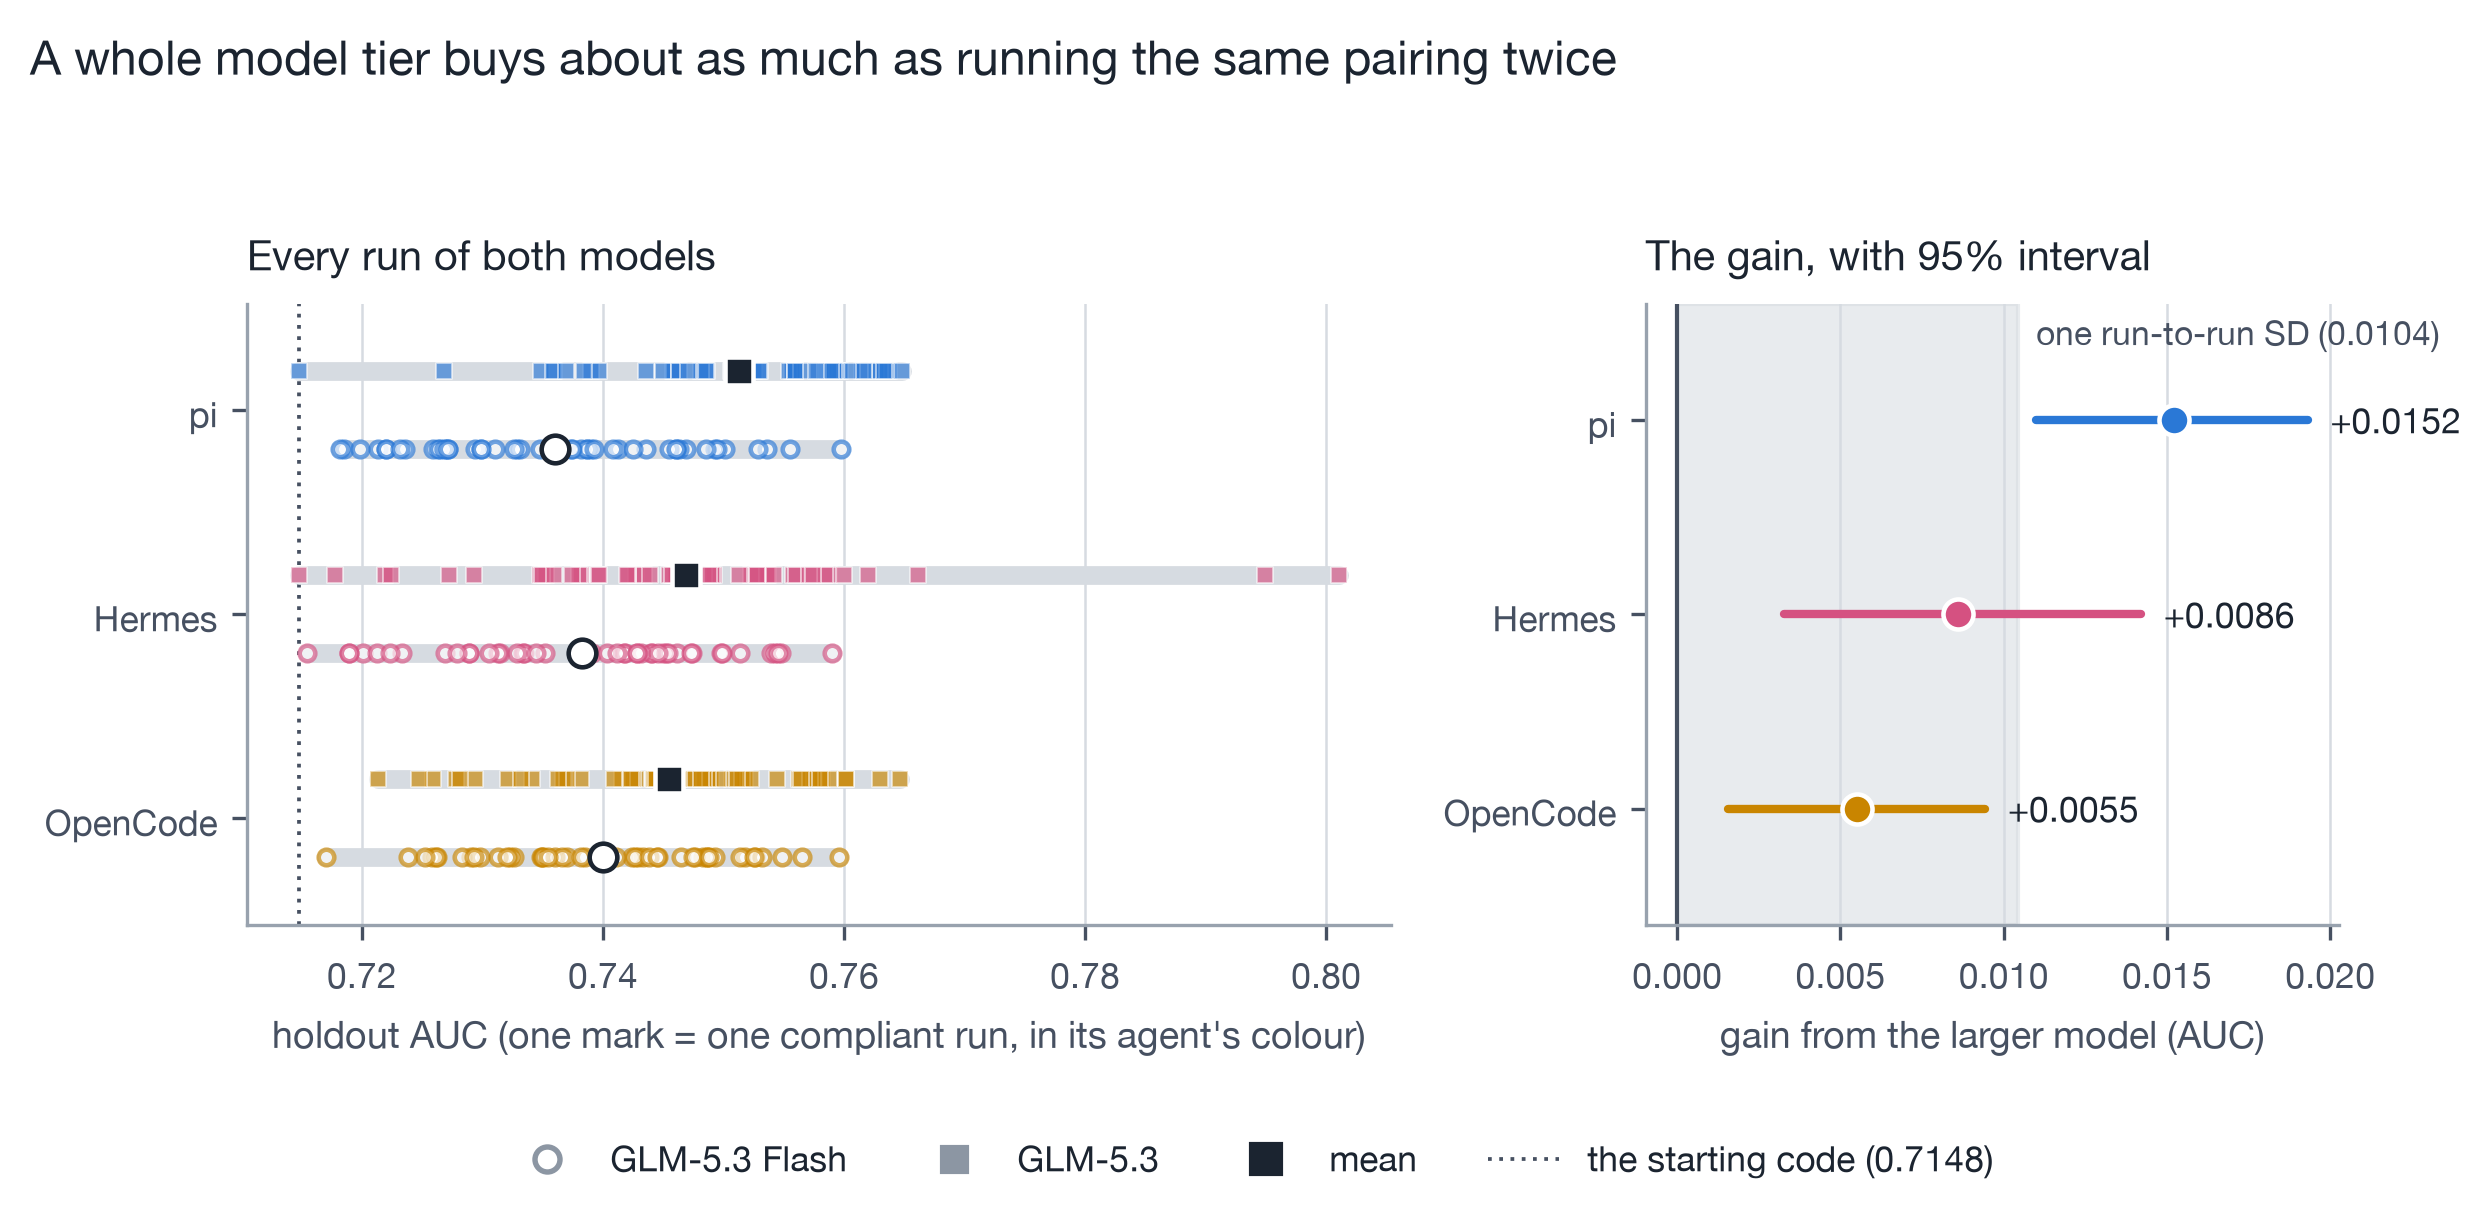
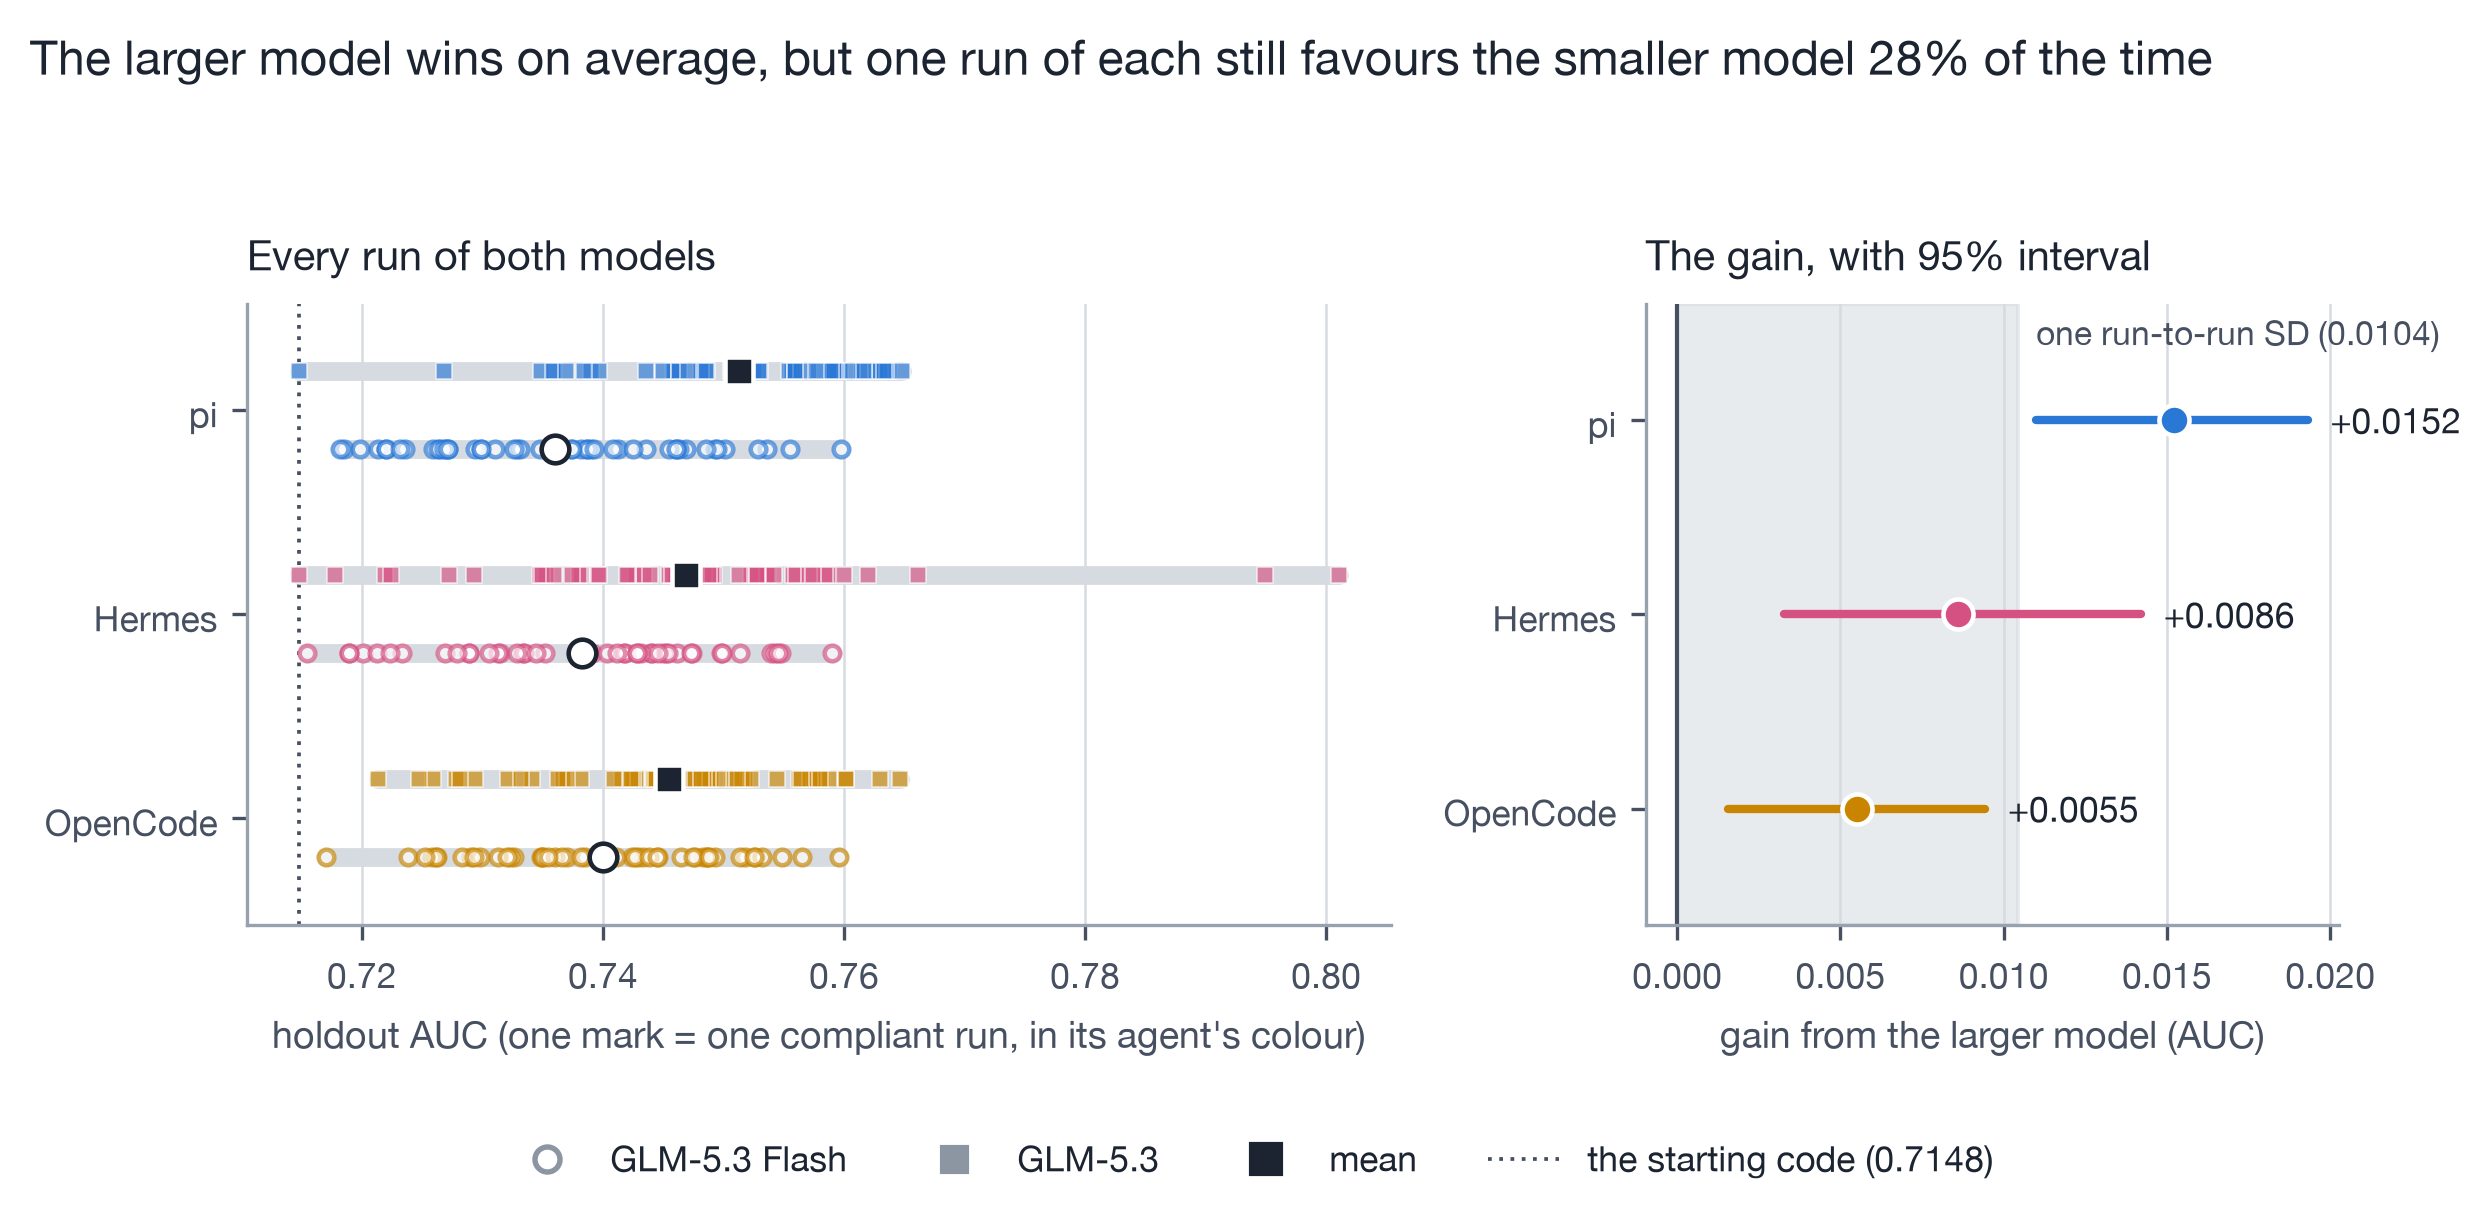
Say what the model upgrade is worth in terms a reader can picture
The paper replaced "a whole model tier buys about as much as running the same pairing twice", which was
unclear, and wrong on its most natural reading (keeping the better of two runs buys +0.0060, not the
upgrade's +0.0097). It now reads: run each model once, and the smaller one still comes out ahead 28
percent of the time (15 percent with pi, 32 with Hermes, 35 with OpenCode). This brings the repository to
that version.

- paper/: the current paper, PDF and figure 4, whose title now states the 28 percent.
- analysis/compare_arms.py prints the head-to-head line under the main effect; figure_arms.py computes the
  title from the same data.
- VERIFY.md quotes the new sentence, shows the line that reproduces it and says how it is computed.
- README.md's third result uses the new wording.

Both Study 3 commands were rerun from this checkout. They print 28 percent (32, 35, 15 by agent), and the
figure is byte-identical to the paper's.

Changed region(s): [[0.0, 0.0311, 0.8964, 0.0621]]

diff --git a/analysis/figure_arms.py b/analysis/figure_arms.py
@@ -106,7 +106,9 @@ fig.legend(handles=[Line2D([], [], marker="o", ls="", color=NEUTRAL, markerfacec
                     Line2D([], [], color=MUTED, lw=0.9, ls=(0, (1, 2)),
                            label=f"the starting code ({base:.4f})" if base else "starting code")],
            loc="lower center", ncol=4, frameon=False, fontsize=8.5, bbox_to_anchor=(0.5, -0.03))
-fig.suptitle("A whole model tier buys about as much as running the same pairing twice",
+# one run on each model, compared: how often the smaller model comes out ahead (compare_arms.py prints the same number)
+beat = st.mean(sum(y > x for y in B[h] for x in A[h]) / (len(A[h]) * len(B[h])) for h in agents)
+fig.suptitle(f"The larger model wins on average, but one run of each still favours the smaller model {beat:.0%} of the time",
              fontsize=11.5, color=INK, x=0.015, ha="left")
 fig.tight_layout(rect=(0, 0.06, 1, 0.94))
 fig.savefig(OUT / "pro_vs_flash.png", bbox_inches="tight")

diff --git a/analysis/compare_arms.py b/analysis/compare_arms.py
@@ -82,6 +82,10 @@ def main():
     print(f"\n1. MAIN EFFECT (model tier, pooled): {gain:+.4f}   95% CI {lo:+.4f} to {hi:+.4f}"
           f"   {gain/se:.1f} SE from zero")
     print(f"   within-pairing SD (flash, median across agents) {sd:.4f}  ->  the gain is {gain/sd:.2f} x the noise")
+    # the same fact in plain terms: one run on each model, compared; how often does the smaller model come out ahead?
+    beat = {h: sum(y > x for y in B[h] for x in A[h]) / (len(A[h]) * len(B[h])) for h in agents}
+    print(f"   one run of each model: the smaller model comes out ahead {st.mean(beat.values()):.0%} of the time, "
+          f"averaged over agents (" + ", ".join(f"{h} {beat[h]:.0%}" for h in agents) + ")")
 
     print("\n2. INTERACTION (does the upgrade buy more in one agent than another?)")
     for i in range(len(agents)):

diff --git a/VERIFY.md b/VERIFY.md
@@ -29,21 +29,29 @@ the assignments are in `analysis/identity.py`.
 
 ## What the larger model buys (Study 3)
 
-> *"The larger model scored 0.0097 AUC above Flash ... 7.2 standard errors from zero ... 0.93 times the run-to-run SD"*
+> *"The larger model scored 0.0097 AUC above Flash ... 7.2 standard errors from zero ... 0.93 times the run-to-run SD
+> of a single pairing. Run each model once, and the smaller one still comes out ahead 28 percent of the time: 15
+> percent with pi, 35 with OpenCode."*
 
 ```bash
 python analysis/compare_arms.py data/study3/cells.csv data/study2/cells.csv
 ```
 
-This prints the per-agent gains with bootstrap intervals, the pooled main effect, every pairwise interaction with a
-"clears zero / does not clear zero" verdict, the detectability ladder, and the two confound checks (box effect
-F = 1.27, time drift +0.0000).
+This prints the per-agent gains with bootstrap intervals, the pooled main effect and, under it, the head-to-head line:
+
+```
+   one run of each model: the smaller model comes out ahead 28% of the time, averaged over agents (hermes 32%, opencode 35%, pi 15%)
+```
+
+That is the share of all compliant (Flash run, GLM-5.3 run) pairs in which the Flash run scores higher, per agent,
+averaged over the three. The script then prints every pairwise interaction with a "clears zero / does not clear zero"
+verdict, the detectability ladder, and the two confound checks (box effect F = 1.27, time drift +0.0000).
 
 The script applies the two rule-breaking screens **to both arms** before comparing. That matters: an earlier interim
 analysis of ours compared screened Flash runs against unscreened GLM-5.3 runs and overstated the gain by about a
 thousandth. The docstring records it.
 
-The figure "A whole model tier buys about as much as running the same pairing twice":
+The figure "The larger model wins on average, but one run of each still favours the smaller model 28% of the time":
 
 ```bash
 python analysis/figure_arms.py data/study3/cells.csv data/study2/cells.csv out/study3

diff --git a/paper/identical-runs-different-results.md b/paper/identical-runs-different-results.md
@@ -239,7 +239,7 @@ diminishing returns.
 
 # Study 3: the same agents, a larger model
 
-## A model tier is worth about one run of noise
+## The larger model's gain is about the size of run-to-run noise
 
 A third study changed one thing and measured what it bought. GLM-5.3 is the larger model in the family whose Flash
 version Study 2 used. We ran the same three agents against it on the same 52 seeds, with the same data, prompt,
@@ -247,8 +247,8 @@ budget, machine type and parallelism: 156 runs in which only the model differed.
 
 The larger model scored **0.0097 AUC above Flash**, averaged over the three agents, with a 95 percent interval of
 0.0071 to 0.0124. That is 7.2 standard errors from zero, so the difference is real. It is also **0.93 times the
-run-to-run SD of a single pairing**. A whole step up the model family buys about as much as running the same
-pairing a second time.
+run-to-run SD of a single pairing**. Run each model once, and the smaller one still comes out ahead 28 percent of
+the time: 15 percent with pi, 35 with OpenCode.
 
 This answers a fair question about the first two studies. When a benchmark reports that agents do not separate, a
 reader should ask whether it can detect anything at all. It can. One genuine change moved the score by seven
@@ -303,8 +303,9 @@ Table: Effect sizes against the median within-pairing SD of 0.0104, with the run
 approximation used above. The first row compares against a fixed number rather than a second noisy arm, so its
 count is a lower bound.
 
-Three runs answer one question reliably: did the agent improve on the code it started from. A model tier takes
-about 18. Telling two agents apart on a fixed model takes 52 to 113. Most published comparisons are made at three.
+Three runs answer one question reliably: did the agent improve on the code it started from. The larger model's gain
+takes about 18. Telling two agents apart on a fixed model takes 52 to 113. Most published comparisons are made at
+three.
 
 # What a difference is worth
 

diff --git a/README.md b/README.md
@@ -24,10 +24,10 @@ Three results, in the order they matter:
    median pairing varies by 0.0107 across its own runs. Three-run comparisons ranked pairings unreliably.
 2. **The rule-breaking runs are at the top of the table.** 11 of 312 runs trained on data the rules put off limits
    or built features from the batch they were scoring. Removing them takes the best score from 0.8293 to 0.7695.
-3. **A whole model tier is worth about one run of noise.** Moving to the larger model gained 0.0097 AUC — 7.2
-   standard errors from zero, and 0.93 times the run-to-run SD. Study 3 is also the positive control: the same
-   design that could not rank three agents detects a real change cleanly, so the agents are close together and the
-   measurement is not blunt.
+3. **The larger model's gain is about the size of run-to-run noise.** Moving to the larger model gained 0.0097 AUC,
+   7.2 standard errors from zero, yet run each model once and the smaller one still comes out ahead 28 percent of the
+   time. Study 3 is also the positive control: the same design that could not rank three agents detects a real change
+   cleanly, so the agents are close together and the measurement is not blunt.
 
 ## Layout
 
